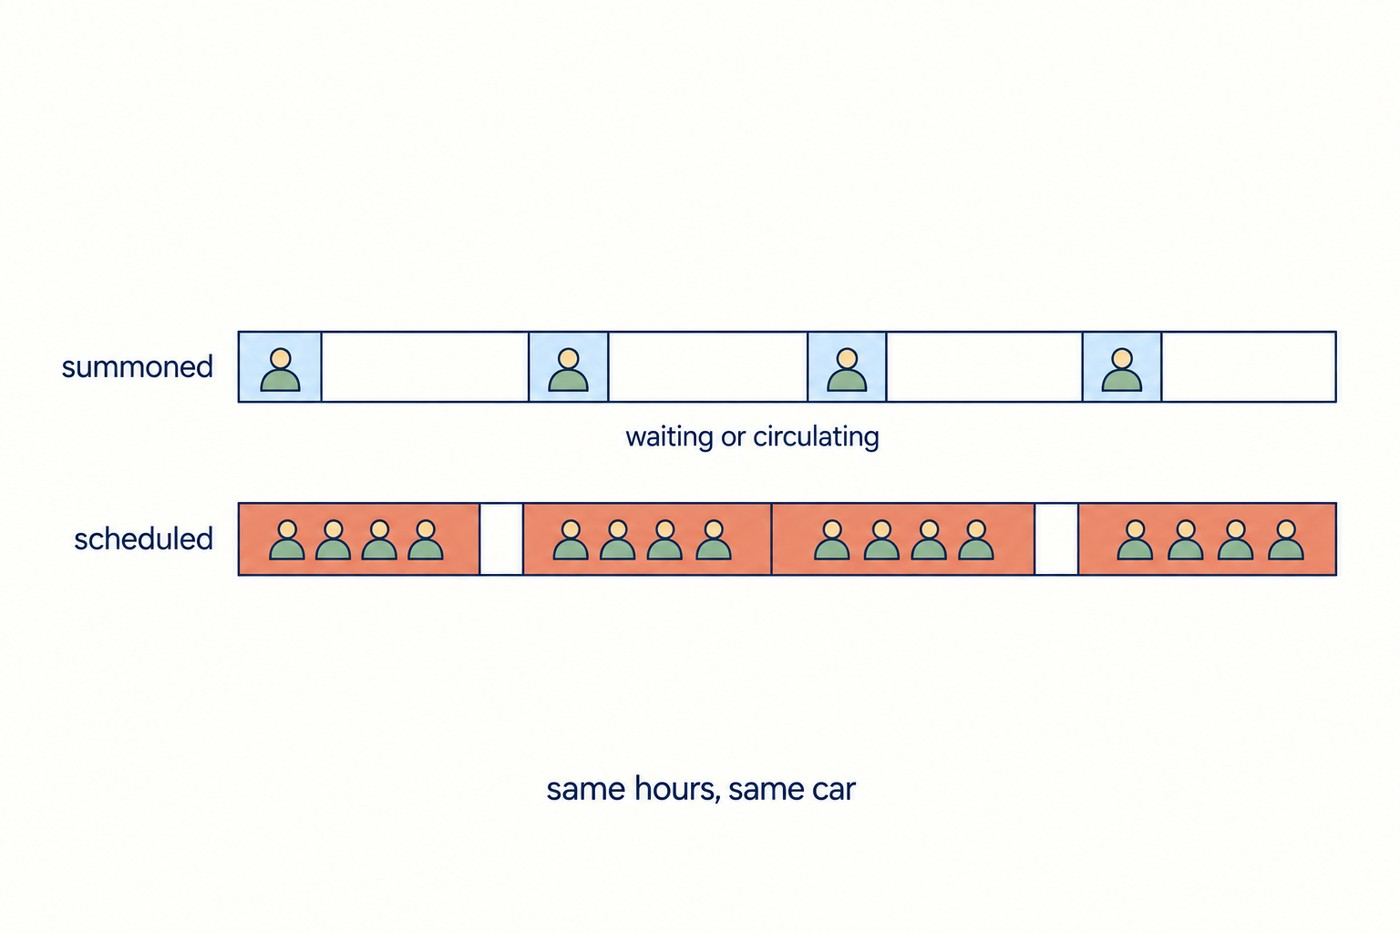
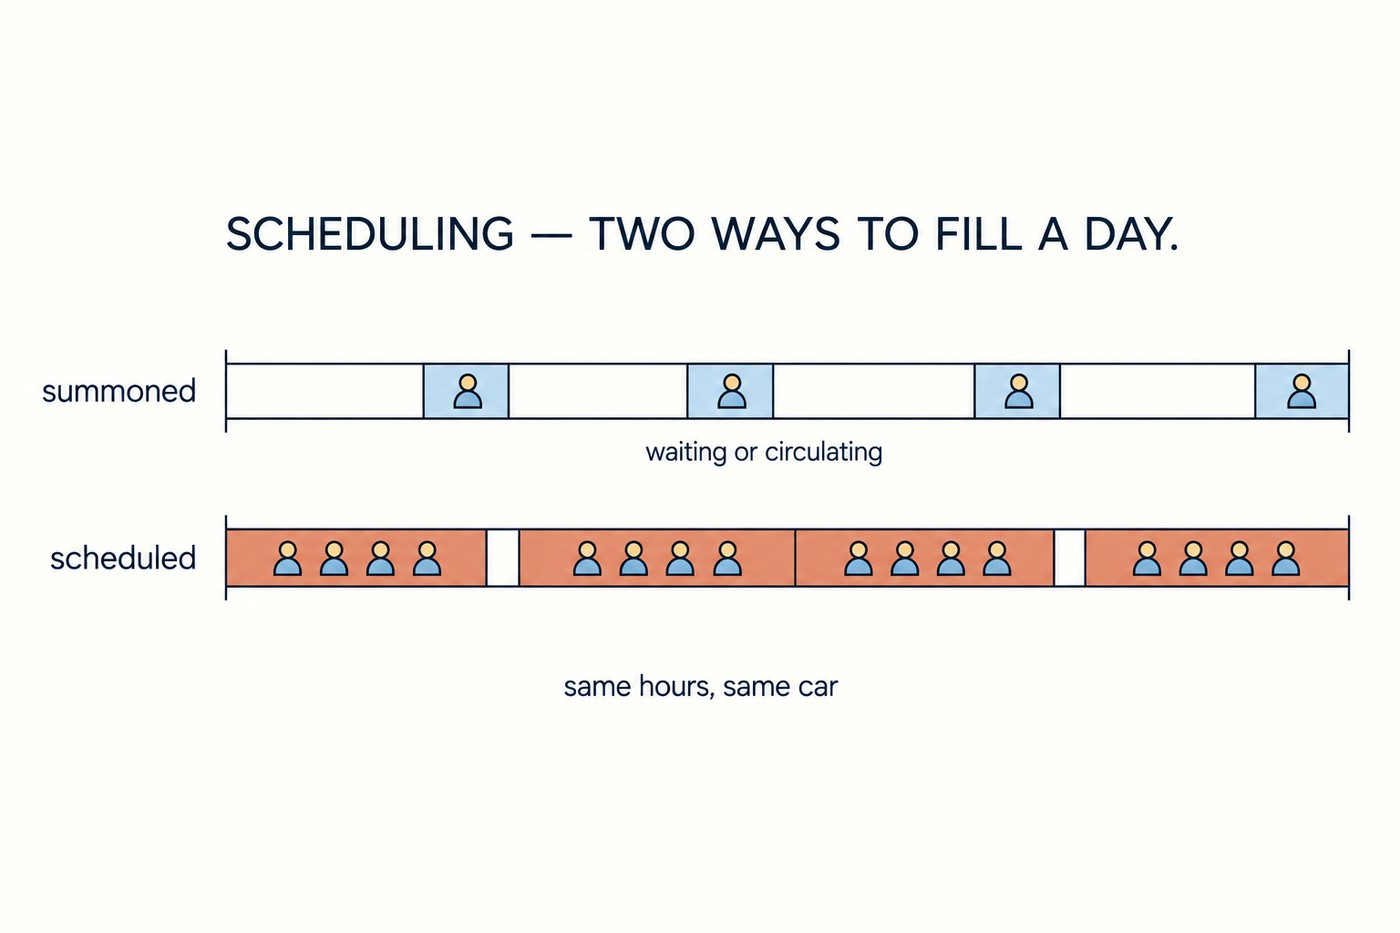
Five more inline figures, and a titled version of the day-plan chart
The Evidence Arrives Too Early:
- Commitment vs risk-exposed timeline, after the "practical question"
  pivot. Commitment sits on a short coral bar of observed evidence; a
  long dashed sky-blue bar labelled "risk exposed" runs far past it to
  the point where the long risk crosses in.

Nobody Wants to Be the First Customer:
- Two lawful positions, inside "Which is what price-only tendering
  makes worse". Two officials, one signing a lowest-compliant-price
  award under a sky-blue tick, the other a quality-weighted award
  under a coral stack of justification papers. Beneath: "the rules
  permit both. Only one requires an explanation."

Scheduled, Not Summoned:
- Almost nothing in a ride varies with the passenger, inside "The
  arithmetic that ride-hailing cannot escape", after the fixed-costs
  paragraph. Sky-blue stacked bar of vehicle-hour costs with a thin
  coral segment at the top for the fuel attributable to an extra
  passenger.
- Replaces the day-plan chart with a titled version.

The Permit Is Not the Project:
- Evidence matures on five different horizons, after the
  proceeding-is-itself-time paragraph. Five bars of increasing length
  from technical (shortest) to institutional (longest), coral dots at
  each endpoint, note: "the decision usually sits near the first
  endpoint."

Claude-Session: https://claude.ai/code/session_01UTkcwmfvBCDVuALj2XrD2r

diff --git a/insight-scheduled-not-summoned.html b/insight-scheduled-not-summoned.html
@@ -116,6 +116,10 @@
 <hr>
 <h2>The arithmetic that ride-hailing cannot escape</h2>
 <p>Strip a ride down to its costs and almost all of them are fixed to the vehicle and the hour rather than to the passenger. The car is depreciating whether it holds one person or four. The fuel difference between carrying one and four is small. The driver is paid for the hour either way. Insurance, maintenance and financing are all per vehicle.</p>
+<figure>
+<img src="/assets/img/insight-scheduled-not-summoned-cost.jpg?v=7b2a3345" alt="Chart, 'Almost nothing in a ride varies with the passenger'. A single vertical stacked bar labelled 'cost of one vehicle-hour', divided from bottom to top into segments in sky blue labelled depreciation, financing, insurance, maintenance and driver time. A thin coral segment sits at the very top labelled 'fuel attributable to an extra passenger', annotated 'the only part that changes when you add someone'. Footnote: Schematic. Transitions Lab, 2026." class="diagram">
+<figcaption>Almost every line in the cost stack is paid whether the seat behind is filled or empty.</figcaption>
+</figure>
 <p>Which means the single most powerful lever on the cost of a ride is the number of people in the car, and the second most powerful is the proportion of the driver's working day that is spent carrying anybody at all.</p>
 <p>Conventional ride-hailing is structurally bad at both. It matches one request to one vehicle, so occupancy is usually one. And it requires the driver to be available and idle in order to be summonable, so a substantial share of the working day is spent circulating or waiting.</p>
 <p>That model works where fares are high enough to carry the empty seats and the idle hours. It works less well as fares fall, and it fails where incomes make a high fare unaffordable, which is most of the market in most African cities.</p>
@@ -123,7 +127,7 @@
 <p>The passenger pays for that with spontaneity. They must decide the night before rather than on the pavement.</p>
 <p><strong>That is the actual trade, and it is worth naming plainly: instantaneous matching is a premium feature, and most urban transport systems in the world have never offered it.</strong> A bus does not come when you summon it. Neither does a train, a minibus taxi on a fixed route, or a shared taxi that departs when full.</p>
 <figure>
-<img src="/assets/img/insight-scheduled-not-summoned-two-days.jpg?v=8dd895be" alt="Diagram: two horizontal timelines representing a single driver's working day. Upper timeline labelled 'summoned' shows four short sky-blue blocks each containing one passenger figure, separated by long empty white gaps annotated 'waiting or circulating'. Lower timeline labelled 'scheduled' shows four wide coral blocks each containing four passenger figures, separated only by two short empty gaps. Beneath both, a note reads 'same hours, same car'." class="diagram">
+<img src="/assets/img/insight-scheduled-not-summoned-two-days.jpg?v=cf702a70" alt="Diagram: two horizontal timelines representing a single driver's working day. Upper timeline labelled 'summoned' shows four short sky-blue blocks each containing one passenger figure, separated by long empty white gaps annotated 'waiting or circulating'. Lower timeline labelled 'scheduled' shows four wide coral blocks each containing four passenger figures, separated only by two short empty gaps. Beneath both, a note reads 'same hours, same car'." class="diagram">
 <figcaption>The same driver, the same twelve hours, and a very different day.</figcaption>
 </figure>
 <hr>

diff --git a/insight-first-customer.html b/insight-first-customer.html
@@ -129,6 +129,10 @@
 <h2>Which is what price-only tendering makes worse</h2>
 <p>Lowest-price award has a specific property in this context. It is defensible. An official who awards to the cheapest compliant bid has a complete answer to any subsequent challenge, and that answer does not depend on the outcome.</p>
 <p>An official who awards to a more expensive bid on grounds of quality, resilience or supply chain has taken a position that has to be justified, and will be re-examined if anything goes wrong. The asymmetry is not about the rules. It is about what is defensible afterwards.</p>
+<figure>
+<img src="/assets/img/insight-first-customer-two-officials.jpg?v=fcef3721" alt="Diagram: two officials seated at identical desks with a supplier opposite each. Left panel shows a clipboard reading 'lowest compliant price' with a sky-blue tick above it. Right panel shows a clipboard reading 'quality weighted award' with a coral stack of justification papers hovering above it. Beneath both, a note reads 'the rules permit both. Only one requires an explanation.'" class="diagram">
+<figcaption>Two lawful positions with very different personal exposure to challenge.</figcaption>
+</figure>
 <p>Allowing non-price criteria therefore does something necessary and insufficient. It removes a prohibition. It does not remove the personal exposure of the person exercising the new discretion, and discretion that carries personal risk without personal reward tends not to be exercised.</p>
 <p>The measures that would change behaviour are duller than the proposal and mostly sit below it. Standardised evaluation frameworks that make a quality-weighted award the default rather than a deviation. Central framework agreements so that the risk of first purchase is taken once, by an institution built to take it, rather than repeatedly by small buyers. Explicit indemnity or insurance for first-of-a-kind installations. And published guidance that an official can point to.</p>
 <p>We made a version of this argument about <a href="/insight-municipality-is-the-instrument">small municipalities and adaptation</a>: the clearance points do not scale with the size of the organisation, and a discretion that requires legal capacity to exercise is available only to buyers who have legal capacity.</p>

diff --git a/insight-permit-is-not-the-project.html b/insight-permit-is-not-the-project.html
@@ -138,6 +138,10 @@
 <p><strong>A permitting process that is fast and contested can produce a slower project than one that is slow and accepted.</strong></p>
 <p>That is not a hypothesis about the future. It is the ordinary history of contested infrastructure, and the mechanism is simple. Objections that cannot be raised during a process are raised after it, in a forum with less flexibility and more delay. A consultation is cheap. A judicial review is not.</p>
 <p>The evidence is already in this file. A deregulatory measure announced in December 2025 to accelerate access to raw materials has, within nine months, produced a formal complaint to the Ombudswoman. That proceeding is itself time, and it arrived before a single permit was granted under the revised rules, which do not yet exist.</p>
+<figure>
+<img src="/assets/img/insight-permit-is-not-the-project-horizons.jpg?v=433ad991" alt="Chart, 'Evidence matures on five different horizons'. Five horizontal sky-blue bars of increasing length labelled from top: technical (shortest), commercial, social, environmental, institutional (longest). Each bar terminates in a coral dot marking when that kind of evidence has matured. Time axis runs left to right beneath. A note reads 'the decision usually sits near the first endpoint'." class="diagram">
+<figcaption>The decision is taken at the shortest horizon. The evidence for the others arrives later and, when it disagrees, arrives in a courtroom.</figcaption>
+</figure>
 <p>Nobody publishes the second number. That is the research question, and it is answerable: take the European mining and processing projects permitted over the last fifteen years, measure decision-to-operation alongside application-to-decision, and see whether the jurisdictions with the fastest permits have the fastest projects.</p>
 <aside class="tl-box">
 <p><strong>The bottleneck that has never been decomposed</strong></p>

diff --git a/insight-evidence-arrives-too-early.html b/insight-evidence-arrives-too-early.html
@@ -121,6 +121,10 @@
 <p>What is happening in Hungary is a partial escape from that trap, and it is worth understanding why, because it generalises.</p>
 <p>The bank is not being asked to act on a projection for 2070. It is being asked to act on a drought that has already happened, whose effect on food prices will arrive within its actual forecasting horizon. The physical risk crossed into the decision window on its own, without anybody having to solve the horizon problem.</p>
 <p><strong>Which suggests the practical question is not how to make institutions think longer. It is where a long-horizon risk has already produced a short-horizon consequence, because that is where evidence can enter a decision without anybody changing their mandate.</strong></p>
+<figure>
+<img src="/assets/img/insight-evidence-arrives-too-early-crossings.jpg?v=c6a472bd" alt="Diagram: a single horizontal time axis. A coral dot near the left labelled 'commitment' marks where a decision is made. A shorter coral bar beneath, labelled 'evidence observed', spans only from that commitment to a midpoint. A much longer dashed sky-blue bar beneath, labelled 'risk exposed', spans from the commitment all the way to a sky-blue dot far to the right, annotated 'the long risk crosses in here'." class="diagram">
+<figcaption>Commitment is made on the short bar. The risk sits on the long one, and does not wait for permission to arrive.</figcaption>
+</figure>
 <p>Food price volatility is the clearest current example. Insurance repricing is another. Infrastructure outage frequency is a third. In each case the physical driver is slow and the consequence is annual.</p>
 <hr>
 <h2>The same evidence, five institutions, five answers</h2>

diff --git a/content/insight-first-customer.md b/content/insight-first-customer.md
@@ -47,6 +47,11 @@ Lowest-price award has a specific property in this context. It is defensible. An
 
 An official who awards to a more expensive bid on grounds of quality, resilience or supply chain has taken a position that has to be justified, and will be re-examined if anything goes wrong. The asymmetry is not about the rules. It is about what is defensible afterwards.
 
+<figure>
+<img src="/assets/img/insight-first-customer-two-officials.jpg" alt="Diagram: two officials seated at identical desks with a supplier opposite each. Left panel shows a clipboard reading 'lowest compliant price' with a sky-blue tick above it. Right panel shows a clipboard reading 'quality weighted award' with a coral stack of justification papers hovering above it. Beneath both, a note reads 'the rules permit both. Only one requires an explanation.'" class="diagram">
+<figcaption>Two lawful positions with very different personal exposure to challenge.</figcaption>
+</figure>
+
 Allowing non-price criteria therefore does something necessary and insufficient. It removes a prohibition. It does not remove the personal exposure of the person exercising the new discretion, and discretion that carries personal risk without personal reward tends not to be exercised.
 
 The measures that would change behaviour are duller than the proposal and mostly sit below it. Standardised evaluation frameworks that make a quality-weighted award the default rather than a deviation. Central framework agreements so that the risk of first purchase is taken once, by an institution built to take it, rather than repeatedly by small buyers. Explicit indemnity or insurance for first-of-a-kind installations. And published guidance that an official can point to.

diff --git a/content/insight-scheduled-not-summoned.md b/content/insight-scheduled-not-summoned.md
@@ -24,6 +24,11 @@ The timing is pointed, arriving after Uber's exit from the Nigerian market. But 
 
 Strip a ride down to its costs and almost all of them are fixed to the vehicle and the hour rather than to the passenger. The car is depreciating whether it holds one person or four. The fuel difference between carrying one and four is small. The driver is paid for the hour either way. Insurance, maintenance and financing are all per vehicle.
 
+<figure>
+<img src="/assets/img/insight-scheduled-not-summoned-cost.jpg" alt="Chart, 'Almost nothing in a ride varies with the passenger'. A single vertical stacked bar labelled 'cost of one vehicle-hour', divided from bottom to top into segments in sky blue labelled depreciation, financing, insurance, maintenance and driver time. A thin coral segment sits at the very top labelled 'fuel attributable to an extra passenger', annotated 'the only part that changes when you add someone'. Footnote: Schematic. Transitions Lab, 2026." class="diagram">
+<figcaption>Almost every line in the cost stack is paid whether the seat behind is filled or empty.</figcaption>
+</figure>
+
 Which means the single most powerful lever on the cost of a ride is the number of people in the car, and the second most powerful is the proportion of the driver's working day that is spent carrying anybody at all.
 
 Conventional ride-hailing is structurally bad at both. It matches one request to one vehicle, so occupancy is usually one. And it requires the driver to be available and idle in order to be summonable, so a substantial share of the working day is spent circulating or waiting.

diff --git a/content/insight-permit-is-not-the-project.md b/content/insight-permit-is-not-the-project.md
@@ -68,6 +68,11 @@ That is not a hypothesis about the future. It is the ordinary history of contest
 
 The evidence is already in this file. A deregulatory measure announced in December 2025 to accelerate access to raw materials has, within nine months, produced a formal complaint to the Ombudswoman. That proceeding is itself time, and it arrived before a single permit was granted under the revised rules, which do not yet exist.
 
+<figure>
+<img src="/assets/img/insight-permit-is-not-the-project-horizons.jpg" alt="Chart, 'Evidence matures on five different horizons'. Five horizontal sky-blue bars of increasing length labelled from top: technical (shortest), commercial, social, environmental, institutional (longest). Each bar terminates in a coral dot marking when that kind of evidence has matured. Time axis runs left to right beneath. A note reads 'the decision usually sits near the first endpoint'." class="diagram">
+<figcaption>The decision is taken at the shortest horizon. The evidence for the others arrives later and, when it disagrees, arrives in a courtroom.</figcaption>
+</figure>
+
 Nobody publishes the second number. That is the research question, and it is answerable: take the European mining and processing projects permitted over the last fifteen years, measure decision-to-operation alongside application-to-decision, and see whether the jurisdictions with the fastest permits have the fastest projects.
 
 <aside class="tl-box">

diff --git a/content/insight-evidence-arrives-too-early.md b/content/insight-evidence-arrives-too-early.md
@@ -34,6 +34,11 @@ The bank is not being asked to act on a projection for 2070. It is being asked t
 
 **Which suggests the practical question is not how to make institutions think longer. It is where a long-horizon risk has already produced a short-horizon consequence, because that is where evidence can enter a decision without anybody changing their mandate.**
 
+<figure>
+<img src="/assets/img/insight-evidence-arrives-too-early-crossings.jpg" alt="Diagram: a single horizontal time axis. A coral dot near the left labelled 'commitment' marks where a decision is made. A shorter coral bar beneath, labelled 'evidence observed', spans only from that commitment to a midpoint. A much longer dashed sky-blue bar beneath, labelled 'risk exposed', spans from the commitment all the way to a sky-blue dot far to the right, annotated 'the long risk crosses in here'." class="diagram">
+<figcaption>Commitment is made on the short bar. The risk sits on the long one, and does not wait for permission to arrive.</figcaption>
+</figure>
+
 Food price volatility is the clearest current example. Insurance repricing is another. Infrastructure outage frequency is a third. In each case the physical driver is slow and the consequence is annual.
 
 ---
